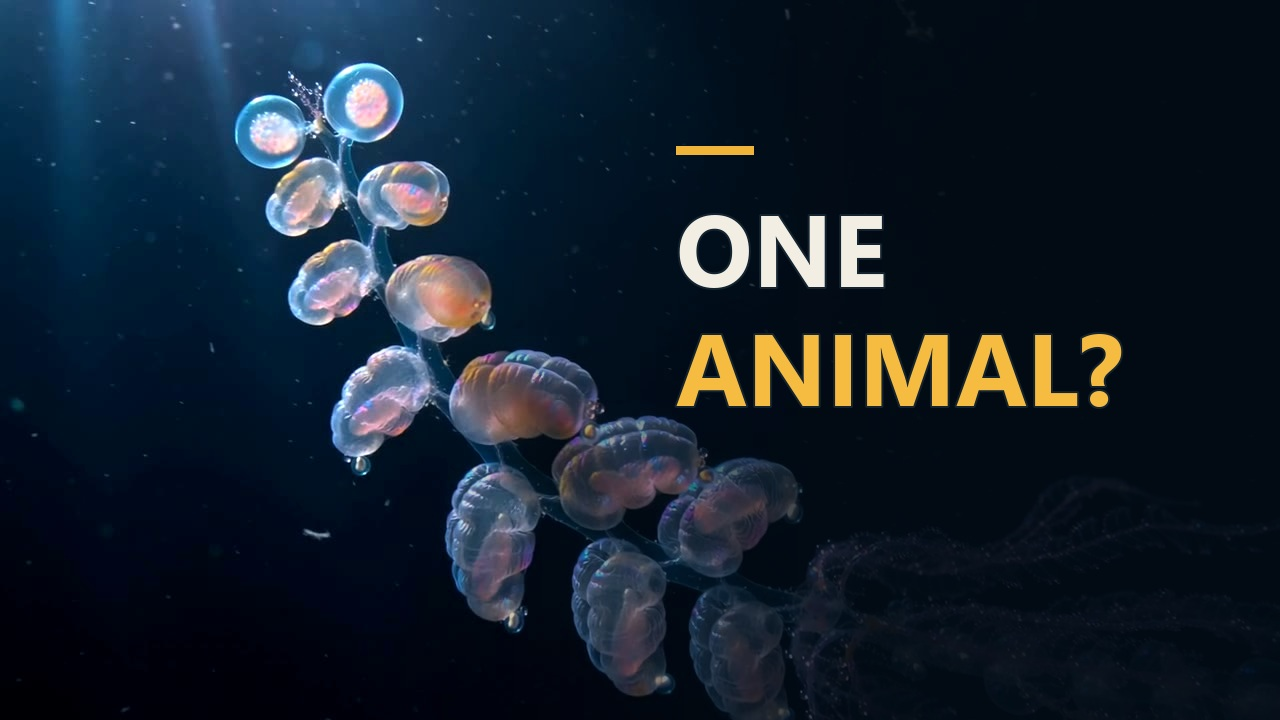
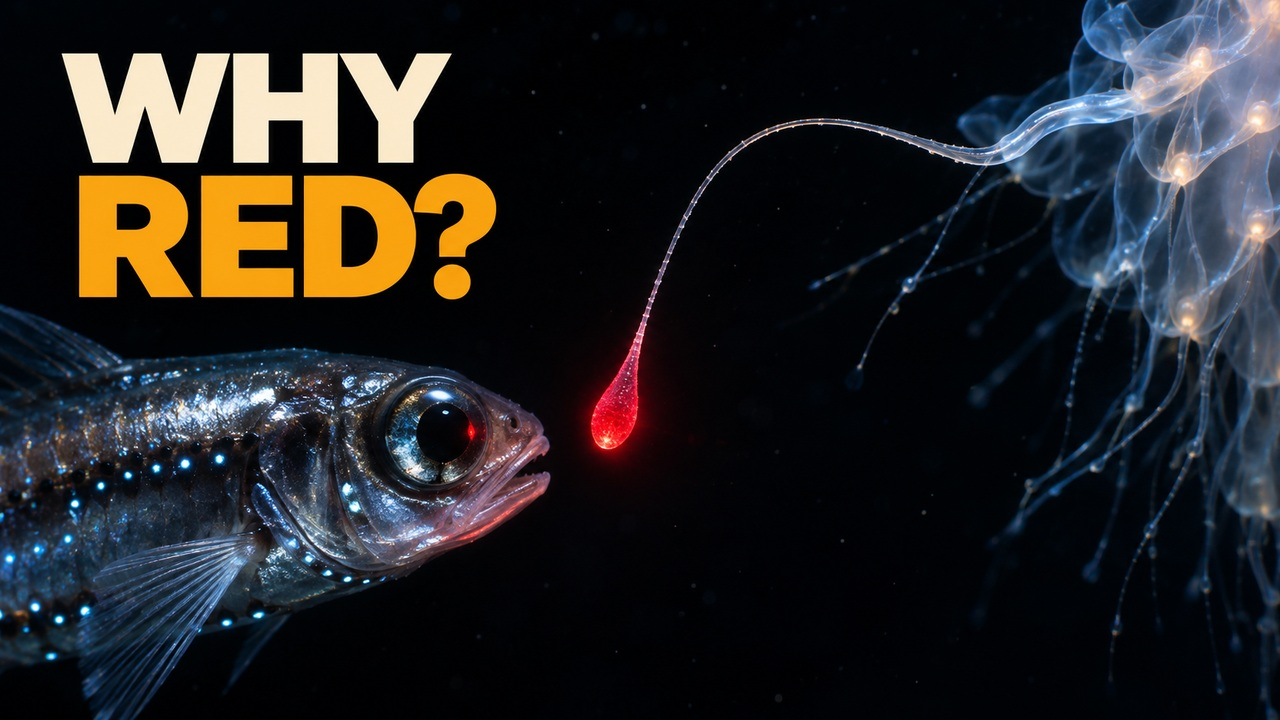
Checkpoint revised D007 release and hand off D008 research

diff --git a/abyss-studio/production/episodes/D007/full-v1/delivery/review.html b/abyss-studio/production/episodes/D007/full-v1/delivery/review.html
@@ -1,6 +1,6 @@
 <!doctype html>
 <html lang="en-US"><meta charset="utf-8"><meta name="viewport" content="width=device-width,initial-scale=1"><title>This Deep-Sea Hunter Is a Colony · Full episode</title>
 <style>:root{color-scheme:dark;font:16px/1.45 "Segoe UI",sans-serif}*{box-sizing:border-box}body{margin:0;background:#091a21;color:#f0eee6}main{max-width:1120px;margin:auto;padding:20px 24px 56px}h1{font-size:clamp(24px,4vw,36px);line-height:1.15;margin:.2em 0 .55em}small{color:#aad1c7}video{width:100%;aspect-ratio:16/9;display:block}nav{display:flex;flex-wrap:wrap;gap:10px;margin:16px 0}button,a{font:inherit;color:#b3e2d6}button{background:#102d38;border:1px solid #44636c;border-radius:5px;padding:7px 12px;cursor:pointer}footer{display:flex;flex-wrap:wrap;gap:20px}</style>
-<main><small>Abyss Fieldnotes · D007 · Full episode review</small><h1>This Deep-Sea Hunter Is a Colony</h1><video src="D007.mp4" poster="thumbnail-A.jpg" controls playsinline preload="metadata"></video><nav><button data-time="0.000">0:00 &nbsp;One hunter or a colony?</button><button data-time="73.583">1:13 &nbsp;Following the shared stem</button><button data-time="139.000">2:19 &nbsp;Which swimming bell steers?</button><button data-time="274.292">4:34 &nbsp;A red lure in the dark</button><button data-time="436.708">7:16 &nbsp;Following a colony with an ROV</button><button data-time="507.375">8:27 &nbsp;Reading the photograph again</button></nav><footer><a href="D007.mp4" download>Download the episode</a><a href="D007-en-US.srt" download>English captions</a><a href="rights-and-sources.json">Sources and credits</a></footer></main>
+<main><small>Abyss Fieldnotes · D007 · Full episode review</small><h1>This Deep-Sea Hunter Is a Colony</h1><video src="D007.mp4" poster="thumbnail-A.jpg" controls playsinline preload="metadata"></video><nav><button data-time="0.000">0:00 &nbsp;One hunter or a colony?</button><button data-time="73.583">1:13 &nbsp;Following the shared stem</button><button data-time="139.000">2:19 &nbsp;Which swimming bell steers?</button><button data-time="274.292">4:34 &nbsp;A red lure in the dark</button><button data-time="436.708">7:16 &nbsp;Following a colony with an ROV</button><button data-time="507.375">8:27 &nbsp;Reading the photograph again</button></nav><footer><a href="D007.mp4" download>Download the episode</a><a href="accessibility-upload/D007-en-US.srt" download="Fieldnotes-transcript.en-US.srt">Optional English caption file</a><a href="rights-and-sources.json">Sources and credits</a></footer><section><h2>YouTube upload files</h2><nav aria-label="YouTube upload files"><a href="title-en.txt" download>YouTube title</a> <a href="description-en.txt" download>Full description and chapters</a> <a href="thumbnail-A.jpg" download>Thumbnail A · WHY RED?</a> <a href="thumbnail-B.jpg" download>Thumbnail B · WHO'S STEERING?</a></nav></section></main>
 <script>const movie=document.querySelector('video');document.querySelectorAll('button').forEach(b=>b.onclick=()=>{movie.currentTime=Number(b.dataset.time);movie.play().catch(e=>{if(e.name!=='AbortError')throw e;});});</script></html>
 

diff --git a/abyss-studio/production/episodes/D007/full-v1/package.py b/abyss-studio/production/episodes/D007/full-v1/package.py
@@ -1,6 +1,6 @@
 from pathlib import Path
-import json,math,textwrap,html
-from PIL import Image, ImageDraw, ImageFont,ImageOps,ImageEnhance
+import json,html
+from PIL import Image
 b=Path(__file__).resolve().parent;d=b/'delivery'
 def read(p):return json.loads((b/p).read_text('utf8'))
 def put(name,v):(d/name).write_text(v+'\n','utf8')
@@ -14,32 +14,29 @@ dict(asset='Nanomia bijuga, frame from supplementary Movie 1 and Figure 1',credi
 dict(asset='Spotted lanternfish specimen',credit='Julien Savoie',license='CC BY 4.0',license_url='https://creativecommons.org/licenses/by/4.0/',source='https://www.gbif.org/occurrence/6235768722',presentation='Full photograph resized and caption added'),
 dict(asset='Deep Discoverer on deployment, NOAA OER',credit='NOAA Ocean Exploration, Gulf of Mexico 2017',license='Public domain',source='https://oceanexplorer.noaa.gov/multimedia/okeanos-explorations-ex1711-dailyupdates-media-video-d2-d2/',presentation='Frame from expedition film')]
 rights=dict(photos=photos,science=read('facts.json')['claims'],opening=read('../opening-v1/delivery/credits.json'),motion=read('web/plates.json'),models='Original illustrative geometry, scale and light are schematic',audio='Original score and Kokoro-82M am_michael US English narration')
+rights['thumbnails'] = {'method': 'Original AI-generated documentary illustrations', 'generator': 'OpenAI ImageGen', 'A': 'Erenna lure and lanternfish', 'B': 'Colony of swimming bells'}
 put('rights-and-sources.json',json.dumps(rights,indent=2))
 put('title-en.txt',title);put('chapters.txt',chap)
 description="Watch a siphonophore turn, and the youngest swimming bells have a surprisingly important job. Follow the same stem toward the tentacles and the job changes again. In the deep Pacific, one species carries a twitching red lure.\n\n"+chap+"\n\nField images and research\n"+'\n'.join(f"{p['asset']} — {p['credit']} ({p['license']}). {p['source']}" for p in photos)+"\nCC BY 4.0: https://creativecommons.org/licenses/by/4.0/\n\n"+'\n'.join(dict.fromkeys(v[2] for v in rights['science']))+"\n\nReconstructed scenes are labeled on screen. Anatomy and water flow are illustrated."
 put('description-en.txt',description)
-fonts=Path('C:/Windows/Fonts')
-def thumb(name,source,words,sub):
-    im=Image.open(b/'qa/source-frames'/source).convert('RGB').resize((1280,720))
-    if name=='B':im=ImageOps.mirror(im)
-    im=ImageEnhance.Contrast(im).enhance(1.14)
-    layer=Image.new('RGBA',im.size);g=ImageDraw.Draw(layer)
-    for x in range(1280):
-        alpha=int(234*max(0,min(1,(x-370)/520)))
-        g.line((x,0,x,720),fill=(2,12,21,alpha))
-    im=Image.alpha_composite(im.convert('RGBA'),layer);g=ImageDraw.Draw(im)
-    def f(n):return ImageFont.truetype(str(fonts/'segoeuib.ttf'),n)
-    x=676;y=178
-    g.rectangle((x,146,x+77,154),fill='#efb438')
-    for i,line in enumerate(words):
-        g.text((x,y+i*119),line,font=f(101),fill='#f5bc41' if i==1 else '#f3eee4',stroke_width=2,stroke_fill='#132330')
-    im.convert('RGB').save(d/f'thumbnail-{name}.jpg',quality=94)
-thumb('A','swim-045.jpg',['ONE','ANIMAL?'],'');thumb('B','curtain-035.jpg',['WHO','HUNTS?'],'')
+for variant in ('A', 'B'):
+    with Image.open(b/'thumbnail-ai'/f'original-{variant}.png') as source:
+        source.convert('RGB').resize((1280, 720), Image.Resampling.LANCZOS).save(
+            d/f'thumbnail-{variant}.jpg', quality=94, optimize=True)
 buttons=''.join(f'<button data-time="{t:.3f}">{stamp(t)} &nbsp;{html.escape(n)}</button>' for t,n in chapters)
 page=(b.parent/'opening-v1/delivery/review.html').read_text('utf8').replace('D007-opening.mp4','D007.mp4').replace('opening-poster.jpg','thumbnail-A.jpg').replace('Opening review','Full episode review').replace('· Opening','· Full episode').replace('Download the opening','Download the episode').replace('credits.json','rights-and-sources.json')
 a=page.index('<nav>');z=page.index('</nav>')
+page=page.replace('href="D007-en-US.srt" download>English captions','href="accessibility-upload/D007-en-US.srt" download="Fieldnotes-transcript.en-US.srt">Optional English caption file')
 page=page[:a]+'<nav>'+buttons+page[z:]
+posting_files = [
+    ('title-en.txt', 'YouTube title'),
+    ('description-en.txt', 'Full description and chapters'),
+    ('thumbnail-A.jpg', 'Thumbnail A · WHY RED?'),
+    ('thumbnail-B.jpg', "Thumbnail B · WHO'S STEERING?"),
+]
+posting_links = ' '.join(f'<a href="{file}" download>{label}</a>' for file,label in posting_files)
+page = page.replace('</footer>', '</footer><section><h2>YouTube upload files</h2><nav aria-label="YouTube upload files">' + posting_links + '</nav></section>')
 put('review.html',page)
-put('YOUTUBE_UPLOAD.md','# Abyss Fieldnotes · D007\n\nReview D007.mp4 and its English captions. Use title-en.txt and description-en.txt, choose a thumbnail and attach D007-en-US.srt. The film contains labeled realistic AI reconstructions. Select the appropriate altered-content disclosure in YouTube Studio. The owner controls approval and publication.')
+put('YOUTUBE_UPLOAD.md','# Abyss Fieldnotes · D007\n\nOpen D007.mp4 for the version with captions already visible on screen. The optional English caption file for upload is in accessibility-upload/D007-en-US.srt. Keep that folder separate when copying the package for local playback. Use title-en.txt and description-en.txt, and choose thumbnail-A.jpg or thumbnail-B.jpg. Both thumbnail illustrations were generated with AI. The film contains labeled realistic AI reconstructions. The owner controls approval and publication.')
 put('metadata.json',json.dumps(dict(episode='D007',title=title,language='en-US',market='US',release_status='awaiting_owner_review',youtube_published=False,thumbnail='thumbnail-A.jpg'),indent=2))
 

diff --git a/abyss-studio/production/episodes/D007/full-v1/handoff.py b/abyss-studio/production/episodes/D007/full-v1/handoff.py
@@ -14,8 +14,9 @@ d=b/'delivery';qa=read(b/'qa/master.json');master=ref(d/'D007.mp4');player=read(
 assert master['sha256']==qa['sha256']==player['sha256']==sync['sha256'] and qa['complete_decode'] and player['ended'] and not player['error'] and not player['page_errors'] and sync['opening_frames_identical']==1766
 assert (b/'qa/editorial.json').is_file()
 files=[]
-for p in sorted(d.iterdir()):
-    if p.is_file() and p.name!='manifest.json':files.append(dict(ref(p),path=p.name))
+for p in sorted(d.rglob('*')):
+    if p.is_file() and p != d/'manifest.json':
+        files.append(dict(ref(p), path=p.relative_to(d).as_posix()))
 put(d/'manifest.json',dict(episode='D007',language='en-US',market='US',title='This Deep-Sea Hunter Is a Colony',version='full-v1',files=files,master_qa=ref(b/'qa/master.json')['sha256'],status='local_owner_review'))
 next_action='Chủ kênh xem D007 09:16 và duyệt bản dài trước khi tự đăng. Tập kế tiếp là D008.'
 s=read(prod/'state.json');ep=next(e for e in s['episodes'] if e['id']=='D007')
@@ -24,10 +25,11 @@ for k,paths in [('C3_storyboard',['storyboard.json','web/score.json']),('C4_pref
     ep['checks'][k].update(status='in_progress' if k=='C7_qc' else 'passed',reviewed_at=now,evidence=[ref(b/p) for p in paths])
 ep['full_production'].update(status='rendered_waiting_for_owner')
 ep['active_build']=dict(version='full-v1',kind='full_episode',status='full_ready_for_owner_review',scope='full_episode',full_episode_available=True,review_file=master['path'],duration_s=qa['duration_s'],review_page=rel(d/'review.html'),release_language='en-US',owner_acceptance='pending_full',opening_acceptance='accepted_opening',human_listening='pending_owner',technical_qc=ref(b/'qa/master.json'),delivery_manifest=ref(d/'manifest.json'),upload_package=ref(d/'manifest.json'),next_action_vi=next_action)
+ep['active_build']['thumbnails'] = [rel(d / name) for name in ('thumbnail-A.jpg', 'thumbnail-B.jpg')]
 ep['review_edit']=dict(kind='full_episode',status='available_for_joint_review',file=master['path'],duration_s=qa['duration_s'],thumbnail=rel(d/'thumbnail-A.jpg'),not_release_cleared=True)
 s.update(active_episode='D007',updated_at=now);put(prod/'state.json',s)
 c=read(channel/'checkpoint.json');c.update(date='2026-11-22',episode='D007',title=ep['title'],status='D007 toàn tập 09:16 en-US chờ chủ kênh duyệt. Giữ 1.766 khung mở đã duyệt; thêm 5 cảnh Muse từ thư viện. Ba yêu cầu Muse mới trả 502 và đã xác nhận thất bại.',publication='D001–D006 đã đăng. D007 đã dựng toàn tập và đang chờ chủ kênh duyệt.',next=next_action,jobs=[],queue=[dict(episode='D008',title=next(e['title'] for e in s['episodes'] if e['id']=='D008'),status='Đã có đề cương.')],master=dict(kind='full',file=master['path'],report=rel(b/'qa/master.json')),upload_manifest=rel(d/'manifest.json'))
-c['links']={'Phòng xem toàn tập D007':rel(d/'review.html'),'Tựa D007':rel(d/'title-en.txt'),'Mô tả và nguồn D007':rel(d/'description-en.txt'),'Phụ đề Anh Mỹ toàn tập D007':rel(d/'D007-en-US.srt'),'Thumbnail A D007':rel(d/'thumbnail-A.jpg'),'Thumbnail B D007':rel(d/'thumbnail-B.jpg'),'Kiểm phát cả tập D007':rel(b/'qa/player.json'),**c['links']}
+c['links']={**c['links'],'Phòng xem toàn tập D007':rel(d/'review.html'),'Tựa D007':rel(d/'title-en.txt'),'Mô tả và nguồn D007':rel(d/'description-en.txt'),'Phụ đề Anh Mỹ toàn tập D007':rel(d/'accessibility-upload/D007-en-US.srt'),'Thumbnail A D007':rel(d/'thumbnail-A.jpg'),'Thumbnail B D007':rel(d/'thumbnail-B.jpg'),'Kiểm phát cả tập D007':rel(b/'qa/player.json')}
 put(channel/'checkpoint.json',c)
 note='## Abyss Fieldnotes · D007 toàn tập 09:16\n\n[Xem bản dài](episodes/D007/full-v1/delivery/review.html). '+c['status']+' '+next_action+'\n\n'
 p=prod/'SESSION_HANDOFF.md';old=p.read_text('utf-8-sig')

diff --git a/abyss-studio/production/episodes/D007/full-v1/conform.py b/abyss-studio/production/episodes/D007/full-v1/conform.py
@@ -26,7 +26,9 @@ for line,seg in zip(board,align,strict=True):
 for c,n in zip(caps,caps[1:]):c['b']=min(c['b'],n['a']-.012)
 save('web/score.json',dict(fps=24,duration=timing['duration'],frames=timing['frames'],cuts=cuts,captions=caps,events={}))
 allcaps=opening['captions']+[dict(a=offset+c['a'],b=offset+c['b'],text=c['text']) for c in caps]
-(b/'delivery/D007-en-US.srt').write_text(''.join(f"{i+1}\n{srt_time(c['a'])} --> {srt_time(c['b'])}\n{c['text']}\n\n" for i,c in enumerate(allcaps)),'utf8')
+caption_dir = b/'delivery/accessibility-upload'
+caption_dir.mkdir(parents=True, exist_ok=True)
+(caption_dir/'D007-en-US.srt').write_text(''.join(f"{i+1}\n{srt_time(c['a'])} --> {srt_time(c['b'])}\n{c['text']}\n\n" for i,c in enumerate(allcaps)),'utf8')
 save('qa/full-score.json',dict(fps=24,frames=opening['frames']+timing['frames'],duration=offset+timing['duration'],cuts=opening['cuts']+[dict(c,at=c['at']+offset) for c in cuts],captions=allcaps))
 save('qa/chapters.json',chapter)
 voice,rate=sf.read(b/'voice.wav',dtype='float32')

diff --git a/abyss-studio/production/channels/abyss-fieldnotes/CHECKPOINT.md b/abyss-studio/production/channels/abyss-fieldnotes/CHECKPOINT.md
@@ -4,13 +4,13 @@ Cập nhật ngày 2026-11-22. Thị trường US. Ngôn ngữ bản giao en-US.
 
 ## D007 · This Deep-Sea Hunter Is a Colony
 
-D007 toàn tập 09:16 en-US chờ chủ kênh duyệt. Giữ 1.766 khung mở đã duyệt; thêm 5 cảnh Muse từ thư viện. Ba yêu cầu Muse mới trả 502 và đã xác nhận thất bại.
+D007 toàn tập 09:16 en-US chờ chủ kênh duyệt. Đã mở lại MP4 trong MPC-HC và xác nhận chỉ còn phụ đề trong hình. SRT nằm riêng ở accessibility-upload. Hai thumbnail AI đã kiểm ở 160×90: A “WHY RED?” là bản mặc định, B “WHO’S STEERING?” là phương án hai.
 
 D001–D006 đã đăng. D007 đã dựng toàn tập và đang chờ chủ kênh duyệt.
 
 ## Tiếp tục từ đây
 
-Chủ kênh xem D007 09:16 và duyệt bản dài trước khi tự đăng. Tập kế tiếp là D008.
+Phiên kế tiếp bắt đầu D008 · Why Are There Lakes on the Seafloor? Đọc đề cương D008 và quy trình dựng Abyss Fieldnotes. Việc đầu tiên là chọn một hồ nước muối sâu có tư liệu NOAA, đối chiếu nguồn về độ mặn, khối lượng riêng và sinh vật ở rìa tại đúng địa điểm, rồi viết đoạn mở en-US theo góc nhìn của ROV.
 
 Khi bàn giao, sổ của kênh ghi 0 tác vụ đang chạy.
 
@@ -34,18 +34,22 @@ Khi bàn giao, sổ của kênh ghi 0 tác vụ đang chạy.
 - File OAuth Desktop app đã lưu trên PC. Chủ kênh mở [Kết nối Google](http://127.0.0.1:4320/fieldnotes#yt-setup) và bấm Cấp quyền Google. Nếu đã đóng cửa sổ Google, chọn Mở lại Google hoặc Hủy chờ.
 - Bảng báo cáo dùng chung file OAuth đã nhập. Chọn tài khoản và kênh trên Google rồi theo dõi theo mã kênh. Có thể bật vidIQ MCP chỉ đọc từng kênh.
 - Mở Quản lý kênh YouTube ngay từ màn hình chính để xem số liệu. Tab Kết nối giữ phần thiết lập Google và vidIQ. File OAuth đã lưu, chủ kênh xác nhận Google để đọc Analytics.
+- D007 dùng hai thumbnail AI nguyên bản. A “WHY RED?” là bản mặc định, B “WHO’S STEERING?” dùng để so sánh. Khi mở MP4 tại thư mục bằng MPC-HC, dùng chữ đã có trong khung hình. Tệp SRT để đăng nằm riêng trong accessibility-upload.
 
 ## Các tập tiếp theo
 
-- **D008 · Why Are There Lakes on the Seafloor?.** Đã có đề cương.
+- **D008 · Why Are There Lakes on the Seafloor?.** C0 · Đã có đề cương. Bước kế tiếp là xác minh nguồn cho kịch bản.
 
 ## Tệp để tiếp tục
 
 - [Quy trình dựng của kênh](<RENDER.md>)
+- [Đề cương D008 cho phiên kế tiếp](<../../episodes/D008/BRIEF.md>)
+- [D007 · Đối chiếu hai thumbnail AI trên điện thoại](<../../episodes/D007/full-v1/qa/thumbnail-mobile-160.jpg>)
+- [D007 · Kiểm khung hình từ tệp và bản tải](<../../episodes/D007/full-v1/qa/native-caption-frames.json>)
 - [Phòng xem toàn tập D007](<../../episodes/D007/full-v1/delivery/review.html>)
 - [Tựa D007](<../../episodes/D007/full-v1/delivery/title-en.txt>)
 - [Mô tả và nguồn D007](<../../episodes/D007/full-v1/delivery/description-en.txt>)
-- [Phụ đề Anh Mỹ toàn tập D007](<../../episodes/D007/full-v1/delivery/D007-en-US.srt>)
+- [Phụ đề Anh Mỹ toàn tập D007](<../../episodes/D007/full-v1/delivery/accessibility-upload/D007-en-US.srt>)
 - [Thumbnail A D007](<../../episodes/D007/full-v1/delivery/thumbnail-A.jpg>)
 - [Thumbnail B D007](<../../episodes/D007/full-v1/delivery/thumbnail-B.jpg>)
 - [Kiểm phát cả tập D007](<../../episodes/D007/full-v1/qa/player.json>)
@@ -102,7 +106,6 @@ Khi bàn giao, sổ của kênh ghi 0 tác vụ đang chạy.
 - [Lời hứa và bản đề xuất của hai thumbnail](<../../episodes/D005/full-v1/delivery/thumbnail-test.json>)
 - [Đối chiếu biên nhận Muse cho thử nghiệm thumbnail](<../../episodes/D005/full-v1/thumbnail-v2/muse-reconciliation.json>)
 - [Ý kiến duyệt D006 toàn tập](<../../episodes/D006/full-v1/qa/owner-approval.json>)
-- [Đề cương D007 cho phiên tới](<../../episodes/D007/BRIEF.md>)
 - [Thumbnail D006 A · ALIVE IN 1776?](<../../episodes/D006/full-v1/delivery/thumbnail-A.jpg>)
 - [Thumbnail D006 B · ONE TINY CLUE](<../../episodes/D006/full-v1/delivery/thumbnail-B.jpg>)
 - [Đối chiếu hai thumbnail D006 ở cỡ điện thoại](<../../episodes/D006/full-v1/qa/thumbnail-mobile.jpg>)
@@ -114,6 +117,7 @@ Khi bàn giao, sổ của kênh ghi 0 tác vụ đang chạy.
 - [Kiểm khôi phục khi đóng cửa sổ Google](<evidence/oauth-wait-recovery-2026-11-21.json>)
 - [Kiểm quản lý nhiều kênh và vidIQ MCP](<evidence/youtube-multichannel-vidiq-2026-11-21.json>)
 - [Kiểm màn hình quản lý và thống kê YouTube](<evidence/youtube-manager-ui-2026-11-21.json>)
+- [Kiểm phụ đề D007 trong MPC-HC](<../../episodes/D007/full-v1/qa/native-captions-after.json>)
 - [MP4 toàn tập](<../../episodes/D007/full-v1/delivery/D007.mp4>)
 - [Biên bản kiểm bản xuất](<../../episodes/D007/full-v1/qa/master.json>)
 - [Danh sách và mã kiểm của gói đăng](<../../episodes/D007/full-v1/delivery/manifest.json>)

diff --git a/README.md b/README.md
@@ -25,6 +25,7 @@ Chạy `.\Verify.ps1` để kiểm tra bản clone. Lệnh mở một máy chủ
 
 ## Tiếp tục sản xuất
 
+- **Phiên kế tiếp bắt đầu ở D008 · Why Are There Lakes on the Seafloor?** Đề cương mở bằng cảnh ROV tiến tới mép hồ nước muối. Chọn địa điểm có tư liệu và xác minh nguồn trước khi viết lời kể. D007 đã sửa lỗi phụ đề khi mở MP4 từ thư mục và đã thay hai thumbnail AI. Bản dài đang chờ chủ kênh duyệt. [Đề cương D008](abyss-studio/production/episodes/D008/BRIEF.md) · [Checkpoint Abyss Fieldnotes](abyss-studio/production/channels/abyss-fieldnotes/CHECKPOINT.md)
 - **Abyss Fieldnotes.** Theo dõi mốc 24 giờ, 48 giờ và 7 ngày trong [bảng kênh](http://127.0.0.1:4320/fieldnotes). Dùng lịch nội dung, feedback và nguồn khoa học của tập trước để dựng tập tiếp theo. Kiểm bản mã hóa, phụ đề và âm lượng trước khi chủ kênh tự đăng.
 - **Second Bell Pictures.** Mẫu hiện hành là SB09 *The Stolen Label*. Xem [hướng dựng còn mở](abyss-studio/production/episodes/SB09/PRODUCTION_HANDOFF.md), [shot và bản dựng](abyss-studio/production/episodes/SB09), [các bước kiểm khẩu hình](codex-video-factory/production/karma-drama/SB09) và [bộ điều phối](codex-video-factory/AGENTS.md). Các thành phần bên thứ ba được nhận diện theo URL, commit và đường dẫn trong [sổ repo](codex-video-factory/REPO_REGISTRY.json).
 - **Khôi phục media.** Repo lưu kịch bản, bảng cảnh, hình tham chiếu, mã ghép, phụ đề, nguồn và kết quả QA. Master, take Muse, audio trung gian và trọng số model là tài sản cục bộ. Để phát hoặc dựng lại bản cũ, dùng `python restore-media.py E:\YOUTUBE` khi ổ sao lưu workspace gốc được gắn. Công cụ kiểm hash trước khi sao chép những media có trong danh mục. Có thể tiếp tục sửa code và phát triển tập mới ngay từ bản clone.

diff --git a/abyss-studio/production/SESSION_HANDOFF.md b/abyss-studio/production/SESSION_HANDOFF.md
@@ -2,9 +2,9 @@
 
 ## D007 · This Deep-Sea Hunter Is a Colony
 
-D007 toàn tập 09:16 en-US chờ chủ kênh duyệt. Giữ 1.766 khung mở đã duyệt; thêm 5 cảnh Muse từ thư viện. Ba yêu cầu Muse mới trả 502 và đã xác nhận thất bại.
+D007 toàn tập 09:16 en-US chờ chủ kênh duyệt. Đã mở lại MP4 trong MPC-HC và xác nhận chỉ còn phụ đề trong hình. SRT nằm riêng ở accessibility-upload. Hai thumbnail AI đã kiểm ở 160×90: A “WHY RED?” là bản mặc định, B “WHO’S STEERING?” là phương án hai.
 
-Chủ kênh xem D007 09:16 và duyệt bản dài trước khi tự đăng. Tập kế tiếp là D008. [Checkpoint](channels/abyss-fieldnotes/CHECKPOINT.md)
+Phiên kế tiếp bắt đầu D008 · Why Are There Lakes on the Seafloor? Đọc đề cương D008 và quy trình dựng Abyss Fieldnotes. Việc đầu tiên là chọn một hồ nước muối sâu có tư liệu NOAA, đối chiếu nguồn về độ mặn, khối lượng riêng và sinh vật ở rìa tại đúng địa điểm, rồi viết đoạn mở en-US theo góc nhìn của ROV. [Checkpoint](channels/abyss-fieldnotes/CHECKPOINT.md)
 
 ## SB09 · The Stolen Label
 

diff --git a/abyss-studio/production/episodes/D007/full-v1/delivery/YOUTUBE_UPLOAD.md b/abyss-studio/production/episodes/D007/full-v1/delivery/YOUTUBE_UPLOAD.md
@@ -1,3 +1,3 @@
 # Abyss Fieldnotes · D007
 
-Review D007.mp4 and its English captions. Use title-en.txt and description-en.txt, choose a thumbnail and attach D007-en-US.srt. The film contains labeled realistic AI reconstructions. Select the appropriate altered-content disclosure in YouTube Studio. The owner controls approval and publication.
+Open D007.mp4 for the version with captions already visible on screen. The optional English caption file for upload is in accessibility-upload/D007-en-US.srt. Keep that folder separate when copying the package for local playback. Use title-en.txt and description-en.txt, and choose thumbnail-A.jpg or thumbnail-B.jpg. Both thumbnail illustrations were generated with AI. The film contains labeled realistic AI reconstructions. The owner controls approval and publication.
